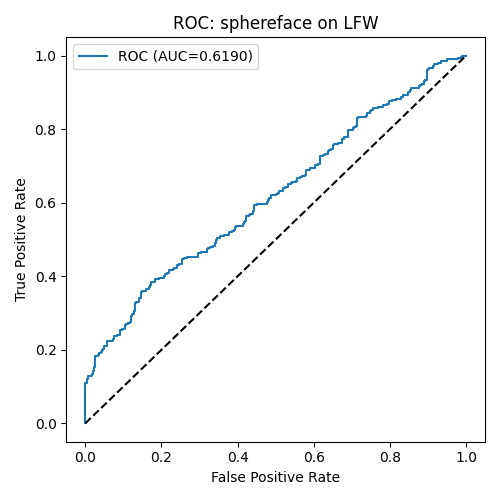
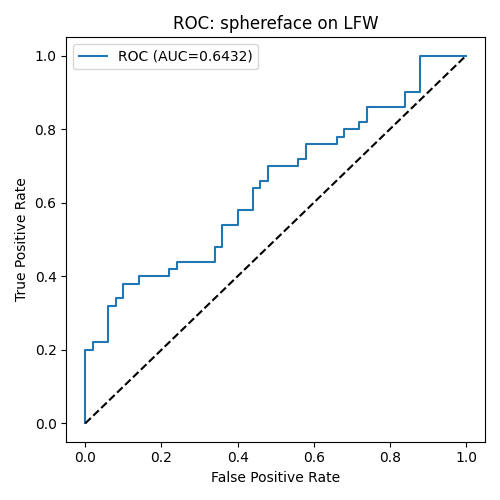
We are back

diff --git a/src/benchmark_parameters/validation_accuracy/logic_roc_graph.py b/src/benchmark_parameters/validation_accuracy/logic_roc_graph.py
@@ -98,7 +98,6 @@ def run_roc(model_name, dataset_path, iters=300):
         emb2 = wrapper.embed(b)
         if emb1 is None or emb2 is None:
             continue
-
         sims.append(cosine_similarity(emb1, emb2))
         labels.append(label)
 
@@ -106,10 +105,23 @@ def run_roc(model_name, dataset_path, iters=300):
     labels = np.array(labels)
 
     # Compute ROC curve
-    fpr, tpr, _ = roc_curve(labels, sims)
+    fpr, tpr, thresholds = roc_curve(labels, sims)
     roc_auc = auc(fpr, tpr)
 
-    # Save plot
+    # --------- ✅ Compute EER ---------
+    fnr = 1 - tpr
+    eer_index = np.nanargmin(np.abs(fnr - fpr))
+    eer = (fpr[eer_index] + fnr[eer_index]) / 2.0
+
+    # --------- ✅ Compute TAR @ FAR = 1e-3 ---------
+    target_far = 1e-3
+    idx = np.searchsorted(fpr, target_far, side="right") - 1
+    if 0 <= idx < len(tpr):
+        tar_at_far = tpr[idx]
+    else:
+        tar_at_far = float("nan")
+
+    # Save ROC PNG
     save_path = os.path.join(os.path.dirname(__file__), "roc_result.png")
     plt.figure(figsize=(6, 5))
     plt.plot(fpr, tpr, label=f"AUC = {roc_auc:.4f}")
@@ -121,15 +133,18 @@ def run_roc(model_name, dataset_path, iters=300):
     plt.savefig(save_path, dpi=200, bbox_inches="tight")
     plt.close()
 
-    # Output JSON for GUI
+    # --------- ✅ Output JSON to GUI ---------
     print(
         json.dumps(
             {
-                "kind": "roc_simple",
+                "kind": "roc_image",
+                "path": save_path,
+                "auc": float(roc_auc),
+                "eer": float(eer),
+                "tar_far_1e3": float(tar_at_far),
+                "pairs_tested": int(len(labels)),
                 "model": model_name,
                 "dataset": os.path.basename(dataset_path),
-                "auc": float(roc_auc),
-                "roc_png": save_path,
             }
         )
     )

diff --git a/src/windows/benchmark_window.py b/src/windows/benchmark_window.py
@@ -715,10 +715,48 @@ class BenchmarkPage(QWidget):
             import matplotlib.image as mpimg
 
             fig.clear()
+            fig.set_facecolor("white")
+            ax = fig.add_axes([0, 0, 1, 1], frameon=False, facecolor="white")
             img = mpimg.imread(img_path)
-            ax = fig.add_subplot(111)
             ax.imshow(img)
-            ax.axis("off")
+            ax.set_axis_off()
+
+            # ---- NEW METRIC OVERLAY ----
+            auc_val = data.get("auc")
+            eer = data.get("eer")
+            tar = data.get("tar_far_1e3")
+            pairs = data.get("pairs_tested")
+            model = data.get("model")
+            dataset = data.get("dataset")
+
+            # Build annotation text
+            lines = []
+            if model and dataset:
+                lines.append(f"{model} on {dataset}")
+            if auc_val is not None:
+                lines.append(f"AUC: {float(auc_val):.4f}")
+            if eer is not None:
+                lines.append(f"EER: {float(eer)*100:.2f}%")
+            if tar is not None:
+                lines.append(f"TAR@FAR=1e-3: {float(tar)*100:.2f}%")
+            if pairs:
+                lines.append(f"Pairs: {int(pairs)}")
+
+            # Draw overlay (bottom-right)
+            if lines:
+                fig.text(
+                    0.98,
+                    0.04,
+                    "\n".join(lines),
+                    ha="right",
+                    va="bottom",
+                    fontsize=10,
+                    bbox=dict(
+                        boxstyle="round,pad=0.35", fc="white", ec="0.75", alpha=0.9
+                    ),
+                )
+
+            canvas.setStyleSheet("background-color: white;")
             canvas.draw()
             return
 

diff --git a/src/benchmark_parameters/validation_accuracy/logic_dataset_image_va.py b/src/benchmark_parameters/validation_accuracy/logic_dataset_image_va.py
@@ -109,6 +109,16 @@ def run_logic(model_name, iters=300, frame_h=None, frame_w=None, dataset_path=No
     fpr, tpr, _ = roc_curve(labels, sims)
     auc_val = auc(fpr, tpr)
 
+    # --- EER (point where FAR == FRR) ---
+    fnr = 1.0 - tpr
+    eer_idx = np.nanargmin(np.abs(fnr - fpr))
+    eer = float((fnr[eer_idx] + fpr[eer_idx]) / 2.0)
+
+    # --- TAR @ FAR = 1e-3 ---
+    target_far = 1e-3
+    # fpr is monotonic from roc_curve, so interpolation is OK
+    tar_at_far = float(np.interp(target_far, fpr, tpr, left=tpr[0], right=tpr[-1]))
+
     export_path = os.path.join(os.path.dirname(__file__), "last_roc.png")
 
     plt.figure(figsize=(5, 5))
@@ -128,6 +138,8 @@ def run_logic(model_name, iters=300, frame_h=None, frame_w=None, dataset_path=No
         "kind": "roc_image",
         "path": export_path,
         "auc": float(auc_val),
+        "eer": float(eer),  # <--- NEW
+        "tar_far_1e3": float(tar_at_far),  # <--- NEW
         "pairs_tested": len(labels),
         "model": model_name,
         "dataset": os.path.basename(dataset_path),
